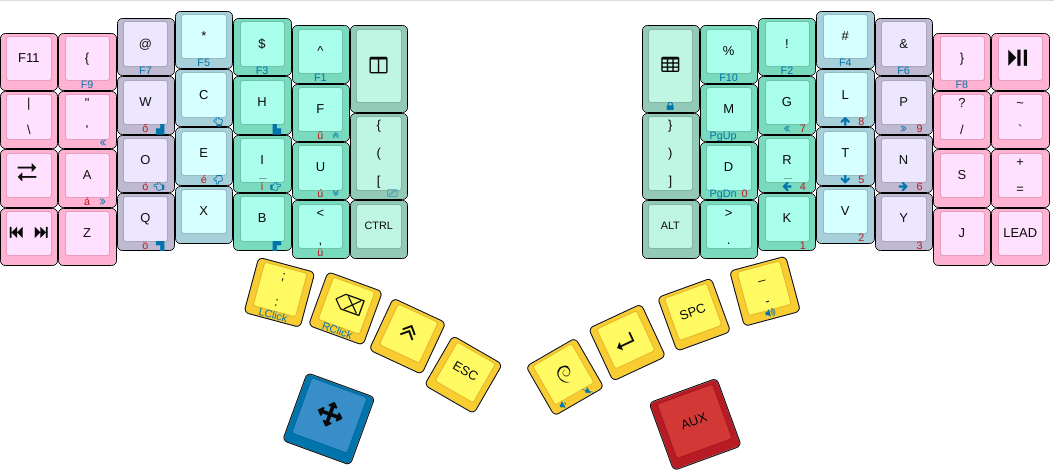
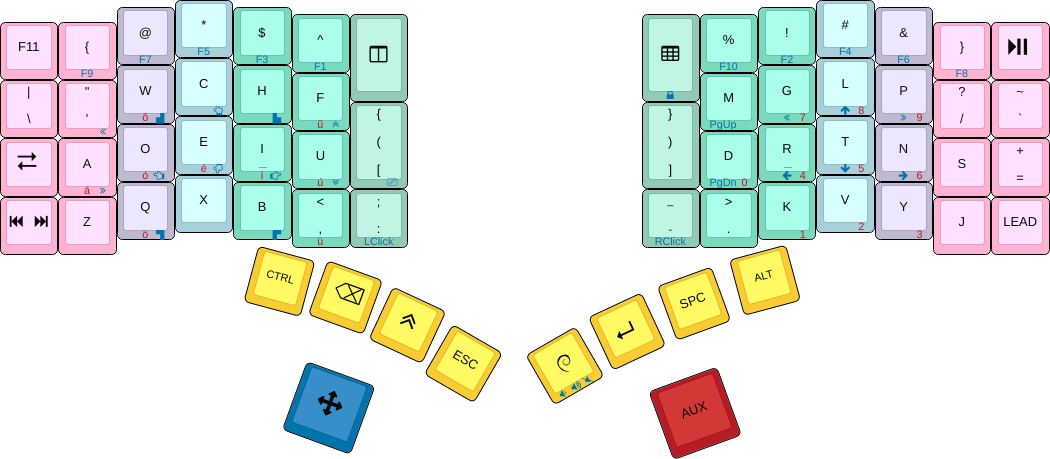
Swap :/- with Control/Alt
Fixes #58.

diff --git a/src/keymap.h b/src/keymap.h
@@ -79,17 +79,17 @@ const Key keymaps[][ROWS][COLS] PROGMEM = {
     M(F11)        ,Key_LCB   ,Key_AT    ,Key_STAR   ,Key_DOLLR ,Key_CARET ,TD(TMUX)
    ,Key_Backtick  ,Key_Quote ,Key_Comma ,Key_Period ,Key_P     ,Key_Y     ,TD(LPB)
    ,Key_Tab       ,Key_A     ,Key_O     ,Key_E      ,Key_U     ,Key_I
-   ,TD(MNP)       ,Key_Slash ,Key_Q     ,Key_J      ,Key_K     ,Key_X     ,OSM(LeftControl)
+   ,TD(MNP)       ,Key_Slash ,Key_Q     ,Key_J      ,Key_K     ,Key_X     ,TD(COLON)
 
-   ,TD(COLON) ,Key_Backspace ,OSM(LeftShift) ,Key_Escape
+   ,OSM(LeftControl) ,Key_Backspace ,OSM(LeftShift) ,Key_Escape
    ,OSL(_NAV)
 
    ,TD(TMUXP)    ,Key_PRCNT ,Key_EXCLM ,Key_HASH ,Key_AND ,Key_RCB ,Key_PlayPause
    ,TD(RPB)      ,Key_F     ,Key_G     ,Key_C    ,Key_R   ,Key_L   ,Key_Backslash
                  ,Key_D     ,Key_H     ,Key_T    ,Key_N   ,Key_S   ,Key_Equals
-   ,OSM(LeftAlt) ,Key_B     ,Key_M     ,Key_W    ,Key_V   ,Key_Z   ,LEAD(MAIN)
+   ,Key_Minus    ,Key_B     ,Key_M     ,Key_W    ,Key_V   ,Key_Z   ,LEAD(MAIN)
 
-   ,Key_LeftGui ,Key_Enter ,Key_Spacebar ,Key_Minus
+   ,Key_LeftGui ,Key_Enter ,Key_Spacebar ,OSM(LeftAlt)
    ,OSL(_AUX)
   ),
 
@@ -98,17 +98,17 @@ const Key keymaps[][ROWS][COLS] PROGMEM = {
     TD(F11)       ,Key_LCB   ,Key_AT ,Key_STAR ,Key_DOLLR ,Key_CARET ,TD(TMUX)
    ,Key_Backslash ,Key_Quote ,Key_W  ,Key_C    ,Key_H     ,Key_F     ,TD(LPB)
    ,Key_Tab       ,Key_A     ,Key_O  ,Key_E    ,Key_I     ,Key_U
-   ,TD(MNP)       ,Key_Z     ,Key_Q  ,Key_X    ,Key_B     ,Key_Comma ,OSM(LeftControl)
+   ,TD(MNP)       ,Key_Z     ,Key_Q  ,Key_X    ,Key_B     ,Key_Comma ,TD(COLON)
 
-   ,TD(COLON) ,Key_Backspace ,OSM(LeftShift) ,Key_Escape
+   ,OSM(LeftControl) ,Key_Backspace ,OSM(LeftShift) ,Key_Escape
    ,OSL(_NAV)
 
    ,TD(TMUXP)    ,Key_PRCNT  ,Key_EXCLM ,Key_HASH ,Key_AND ,Key_RCB   ,Key_PlayPause
    ,TD(RPB)      ,Key_M      ,Key_G     ,Key_L    ,Key_P   ,Key_Slash ,Key_Backslash
                  ,Key_D      ,Key_R     ,Key_T    ,Key_N   ,Key_S     ,Key_Equals
-   ,OSM(LeftAlt) ,Key_Period ,Key_K     ,Key_V    ,Key_Y   ,Key_J     ,LEAD(MAIN)
+   ,Key_Minus    ,Key_Period ,Key_K     ,Key_V    ,Key_Y   ,Key_J     ,LEAD(MAIN)
 
-   ,Key_LeftGui ,Key_Enter ,Key_Spacebar ,Key_Minus
+   ,Key_LeftGui ,Key_Enter ,Key_Spacebar ,OSM(LeftAlt)
    ,OSL(_AUX)
   ),
 
@@ -117,17 +117,17 @@ const Key keymaps[][ROWS][COLS] PROGMEM = {
     ___ ,Key_F9 ,Key_F7 ,Key_F5 ,Key_F3 ,Key_F1 ,XXX
    ,XXX ,MS_SL  ,MW(NW) ,MM(Up) ,MW(NE) ,MS_SUP ,MW(End)
    ,XXX ,MS_SR  ,MM(L)  ,MM(Dn) ,MM(R)  ,MS_SDN
-   ,___ ,XXX    ,MW(SW) ,XXX    ,MW(SE) ,XXX    ,___
+   ,___ ,XXX    ,MW(SW) ,XXX    ,MW(SE) ,XXX    ,MM(BtnL)
 
-   ,MM(BtnL) ,MM(BtnR) ,___ ,___
+   ,___ ,___ ,___ ,___
    ,___
 
    ,LGUI(Key_L) ,Key_F10    ,Key_F2     ,Key_F4      ,Key_F6     ,Key_F8 ,XXX
    ,XXX         ,Key_PageUp ,Key_Home   ,Key_UpArrow ,Key_End    ,XXX    ,XXX
                 ,Key_PageDn ,Key_LArrow ,Key_DnArrow ,Key_RArrow ,XXX    ,XXX
-   ,___         ,XXX        ,XXX        ,XXX         ,XXX        ,XXX    ,XXX
+   ,MM(BtnR)    ,XXX        ,XXX        ,XXX         ,XXX        ,XXX    ,XXX
 
-   ,TD(VOLD) ,___ ,___ ,Consumer_VolumeIncrement
+   ,TD(VOLD) ,___ ,___ ,___
    ,OSL(_EMPTY)
   ),
 
@@ -136,17 +136,17 @@ const Key keymaps[][ROWS][COLS] PROGMEM = {
     XXX ,XXX       ,XXX        ,XXX       ,XXX        ,XXX       ,XXX
    ,XXX ,XXX       ,R(HUN_ODA) ,XXX       ,R(HUN_UDA) ,XXX       ,XXX
    ,XXX ,R(HUN_AA) ,R(HUN_OA)  ,R(HUN_EA) ,R(HUN_UA)  ,R(HUN_IA)
-   ,XXX ,XXX       ,R(HUN_OU)  ,XXX       ,R(HUN_UU)  ,XXX       ,___
+   ,XXX ,XXX       ,R(HUN_OU)  ,XXX       ,R(HUN_UU)  ,XXX       ,XXX
 
-   ,XXX ,___ ,___ ,___
+   ,___ ,___ ,___ ,___
    ,OSL(_EMPTY)
 
    ,XXX ,XXX   ,XXX   ,XXX   ,XXX   ,XXX ,XXX
    ,XXX ,XXX   ,Key_7 ,Key_8 ,Key_9 ,XXX ,XXX
         ,Key_0 ,Key_4 ,Key_5 ,Key_6 ,XXX ,XXX
-   ,___ ,XXX   ,Key_1 ,Key_2 ,Key_3 ,XXX ,XXX
+   ,XXX ,XXX   ,Key_1 ,Key_2 ,Key_3 ,XXX ,XXX
 
-   ,XXX ,XXX ,XXX ,XXX
+   ,XXX ,XXX ,XXX ,___
    ,___
   ),
 

diff --git a/src/TapDance.cpp b/src/TapDance.cpp
@@ -114,6 +114,7 @@ void tapDanceAction(uint8_t tapDanceIndex, byte row, byte col, uint8_t tapCount,
   case VOLD:
     return tapDanceActionKeys(tapCount, tapDanceAction,
                               Consumer_VolumeDecrement,
+                              Consumer_VolumeIncrement,
                               Key_Mute);
   }
 }

diff --git a/README.md b/README.md
@@ -58,7 +58,7 @@ This is a [Dvorak][dvorak]-inspired layout, with some changes here and there, to
   - `LEAD BUTTERFLY` (where `BUTTERFLY` is the `R2C9` key) does an `M-x butterfly RET y`, in honor of [xkcd#378](https://xkcd.com/378/).
   - `LEAD GUI` switches to a special `APPSEL` layer where a few (highlighted) keys on the right side can be used to select an application to switch to.
   - `LEAD Enter GUI` launches an application selector on the host side.
-* The `R0C7` key is also a [tap-dance][kaleidoscope:tap-dance] key, which inputs `:` on a single tap, `;` otherwise.
+* The `R2C6` key is also a [tap-dance][kaleidoscope:tap-dance] key, which inputs `:` on a single tap, `;` otherwise.
 * The `R0C0` key acts as `F11`, but triggers only on release. This is so that it can be held to go into programmable mode when re-flashing, without sending way too many `F11` held events.
 * There are a few other actions one can trigger with [magic combos][kaleidoscope:magic-combos]:
   - `PALMS + ADORE`: Switch to the [ADORE](#adore-layer) layer.
